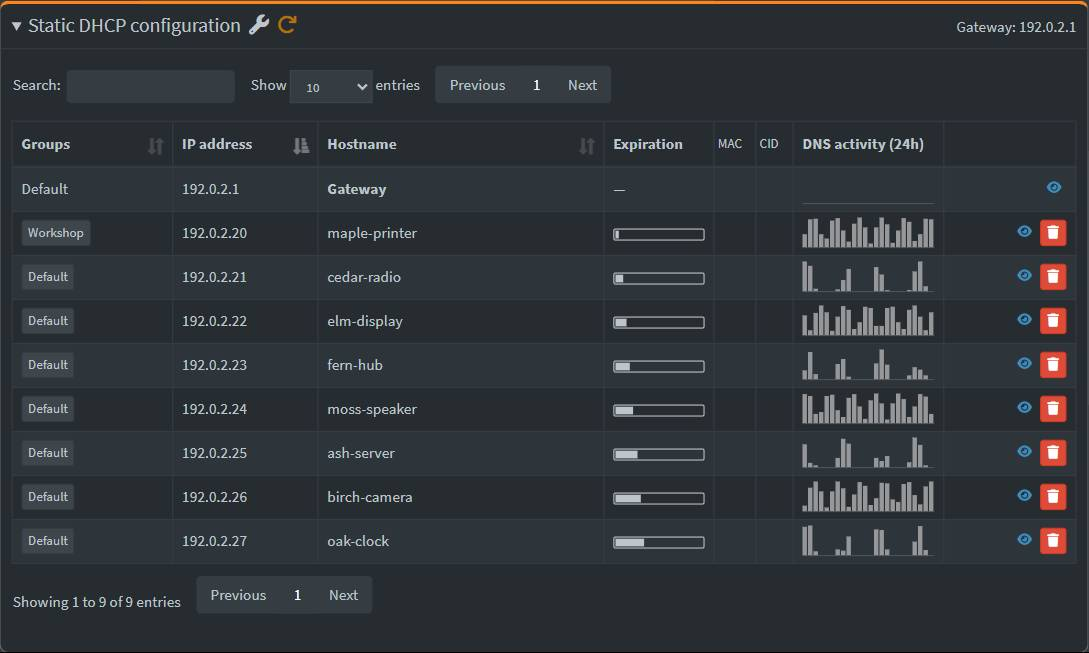
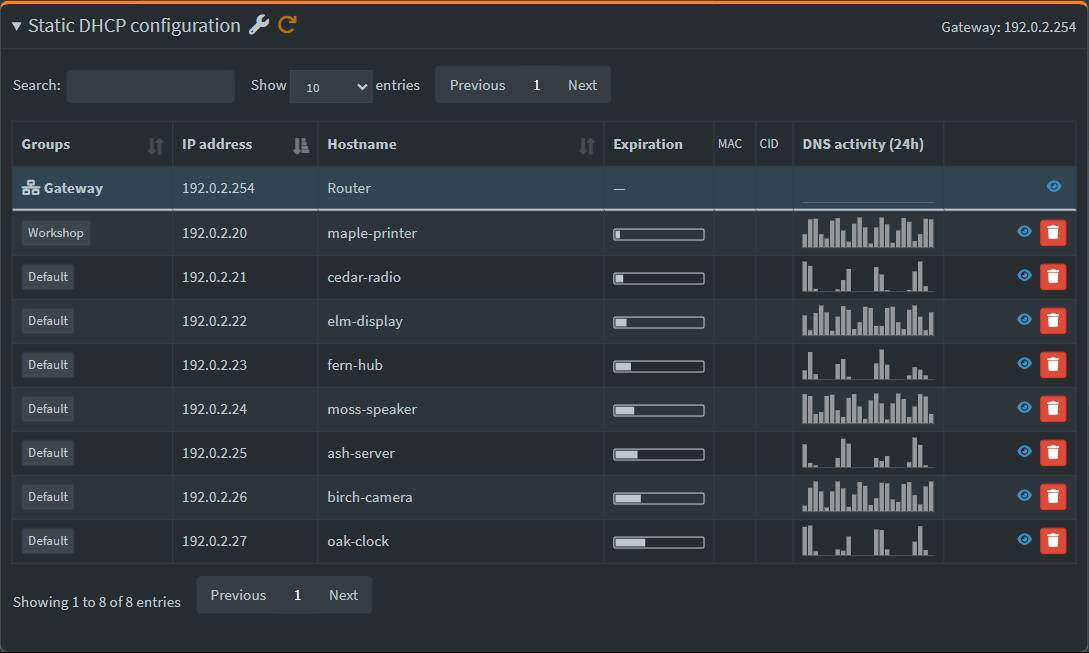
Pin the gateway above reservations and mark its group

Changed region(s): [[0.0, 0.245, 0.9991, 0.3369], [0.8742, 0.0306, 0.9991, 0.0613], [0.0937, 0.9188, 0.1249, 0.9495]]

diff --git a/docs/check.html b/docs/check.html
@@ -13,7 +13,7 @@ h1 { font-size: 1.5rem; } li { margin-block: .6rem; }
 <p id="status"></p>
 <a href="https://github.com/micassa-pics/pihole-awesome-a-fyer/blob/main/prompts/manage.md">Open the update prompt</a>
 <script>
-const latest = "1.1.7";
+const latest = "1.1.8";
 const installed = new URLSearchParams(location.hash.slice(1));
 const pages = [["dashboard", "Dashboard"], ["dhcp", "DHCP"], ["queries", "Query Log"]].filter(([key]) => installed.has(key));
 const older = pages.filter(([key]) => {

diff --git a/dhcp.md b/dhcp.md
@@ -24,7 +24,7 @@ In **Expiration**, the outline represents the configured lease time. The fill sh
 
 Drag a column header in either DHCP table to move it. Each table remembers its own layout in your browser.
 
-The **Static DHCP configuration** heading shows the configured gateway address. Pi-hole reads this address from its DHCP router setting. The table shows one read-only **Gateway** row with a Query Log link. It has no delete button.
+The **Static DHCP configuration** heading shows the configured gateway address. Pi-hole reads this address from its DHCP router setting. The table pins the router above all reservations, even when you search, sort, or change pages. Look for the network icon and **Gateway** in the Groups column. The row has a Query Log link. It has no delete button.
 
 The collapsed **DHCP Settings** heading shows the current address range. In both tables, **Expiration** sits beside **Hostname**. **MAC** and **CID** start collapsed. The screenshots keep both headings visible and leave the cells below them empty. Tap either header label to show or hide that column in both tables. Corresponding columns have the same width.
 
